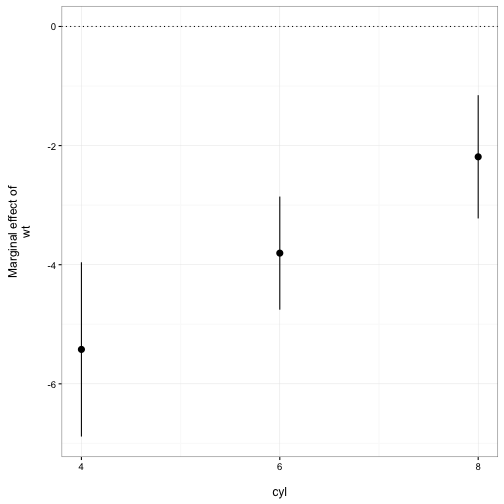
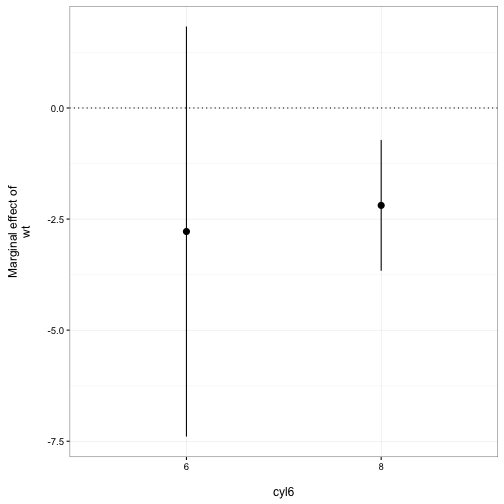
categorical working

diff --git a/README.md b/README.md
@@ -29,12 +29,16 @@ plot_me(m1, 'Income', 'Population')
 
 ![plot of chunk murder-me-example](figure/murder-me-example-1.png)
 
-## Categorical Term 2 
+## Categorical (Factor) Term 2
 
-When the second term in the interaction is categorical (detected by having 5 or fewer categories) then point-ranges are plotted:
+When the second term in the interaction is a categorical (factor) variable then point-ranges are plotted. Note that the marginal effect is in terms of the 
+reference category:
 
 
 ```r
+# Set Term 2 as a factor variable
+mtcars$cyl <- as.factor(mtcars$cyl)
+
 # Estimate model
 m2 <- lm(mpg ~ wt * cyl, data = mtcars)
 
